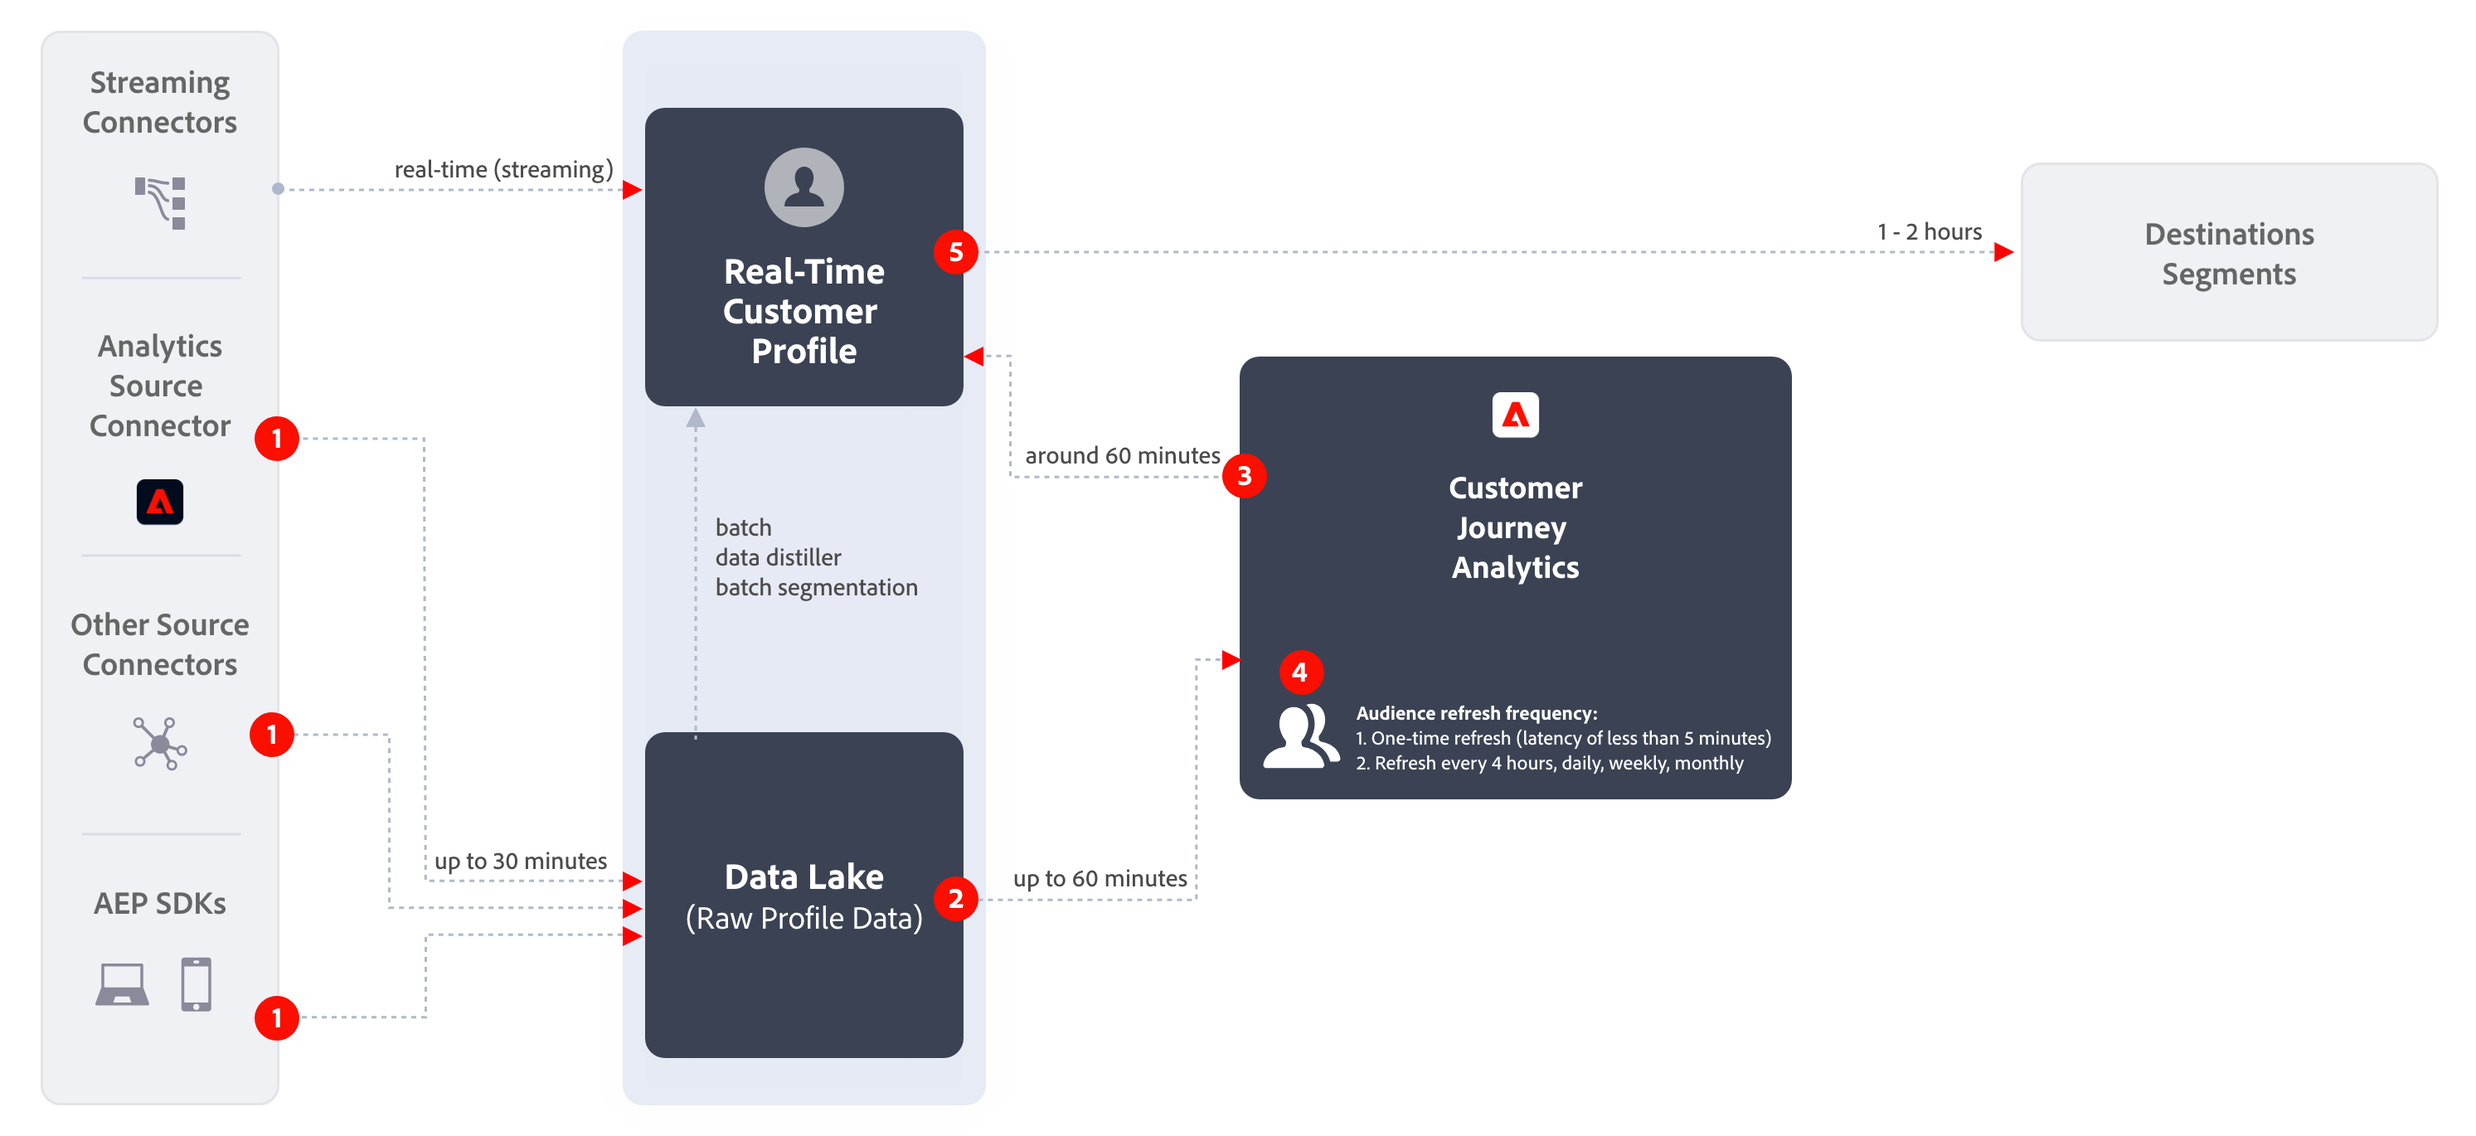
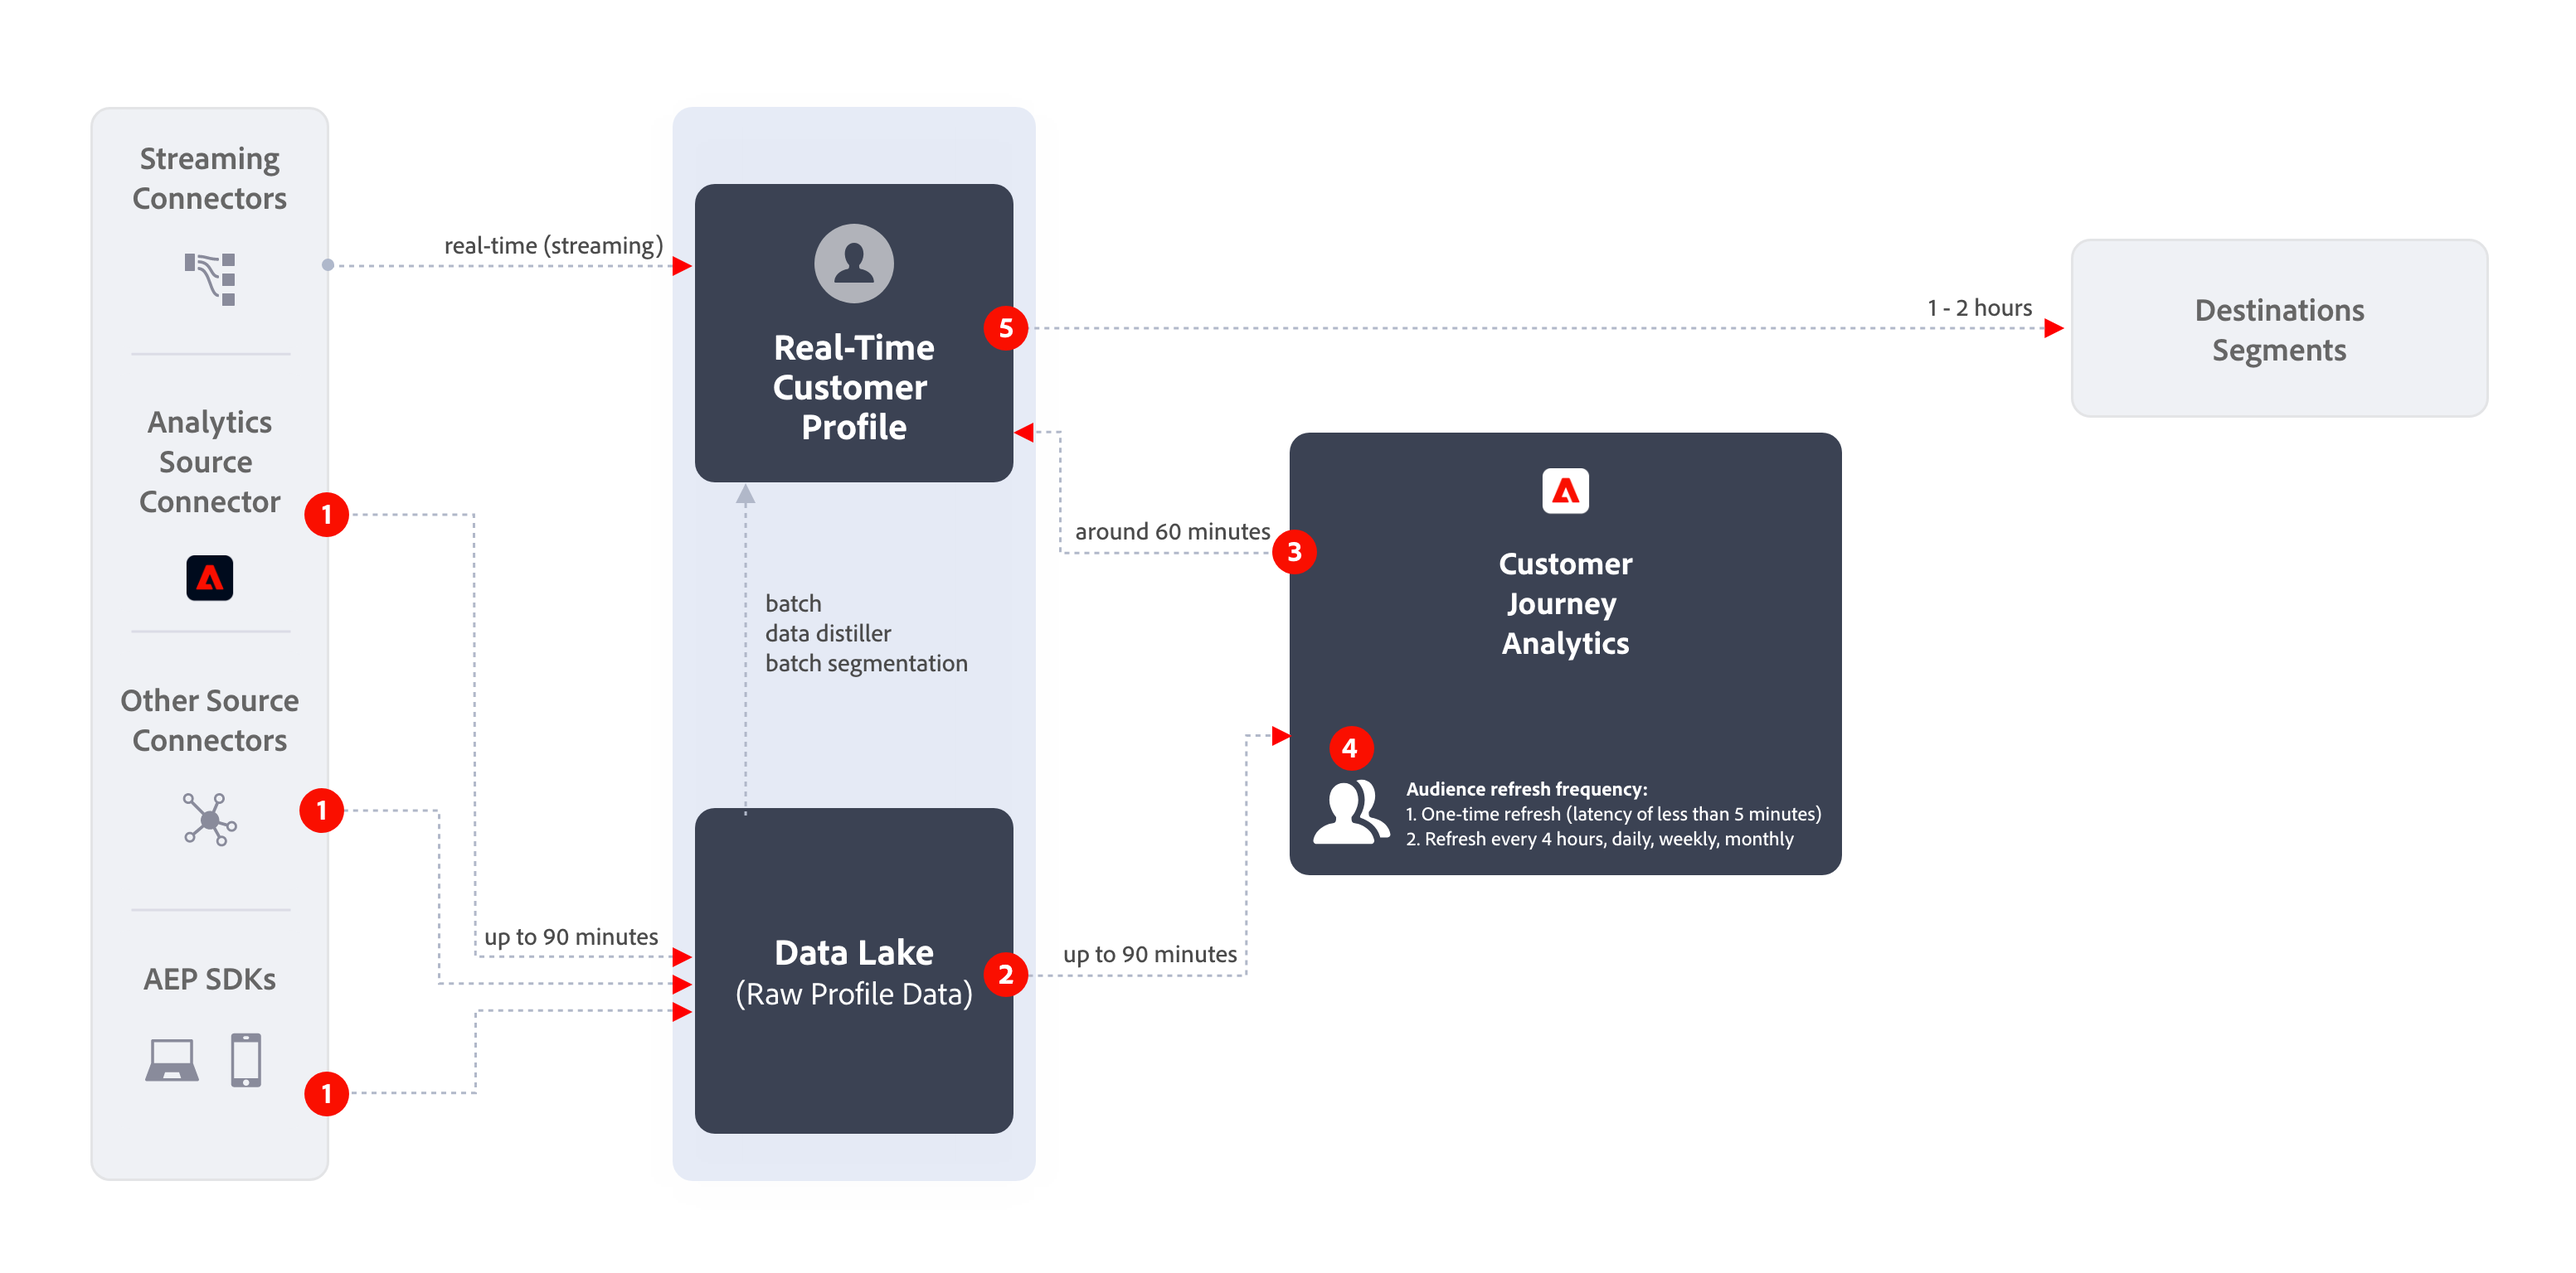
Small updates
Updated custom field to derived fields in processing overview article.
Updated diagram with correct numbers for audience publishing.

diff --git a/help/getting-started/aa-vs-cja/data-processing-comparisons.md b/help/getting-started/aa-vs-cja/data-processing-comparisons.md
@@ -39,7 +39,7 @@ The table below defines terminology for the different types of processing logic 
 | Calculated metrics | Evaluation of customer-created custom metrics which can be based on complex formulas including segments and filters. | Example: # of people who bought red shoes. |
 | Attribution logic | Logic to calculate attribution. | Example: eVar persistence. |
 | Component Settings | Applying customizations to metrics or dimensions, like attribution, behaviour, format, and others | Example: value bucketing to combine numeric values based on a range |
-| Custom fields | Logic applies to schema or standard fields as part of defining components in a Data view. | Example: creating a new marketing channel dimension |
+| Derived fields | Logic applies to schema or standard fields as part of defining components in a Data view. | Example: creating a new marketing channel dimension |
 
 {style="table-layout:auto"}
 
